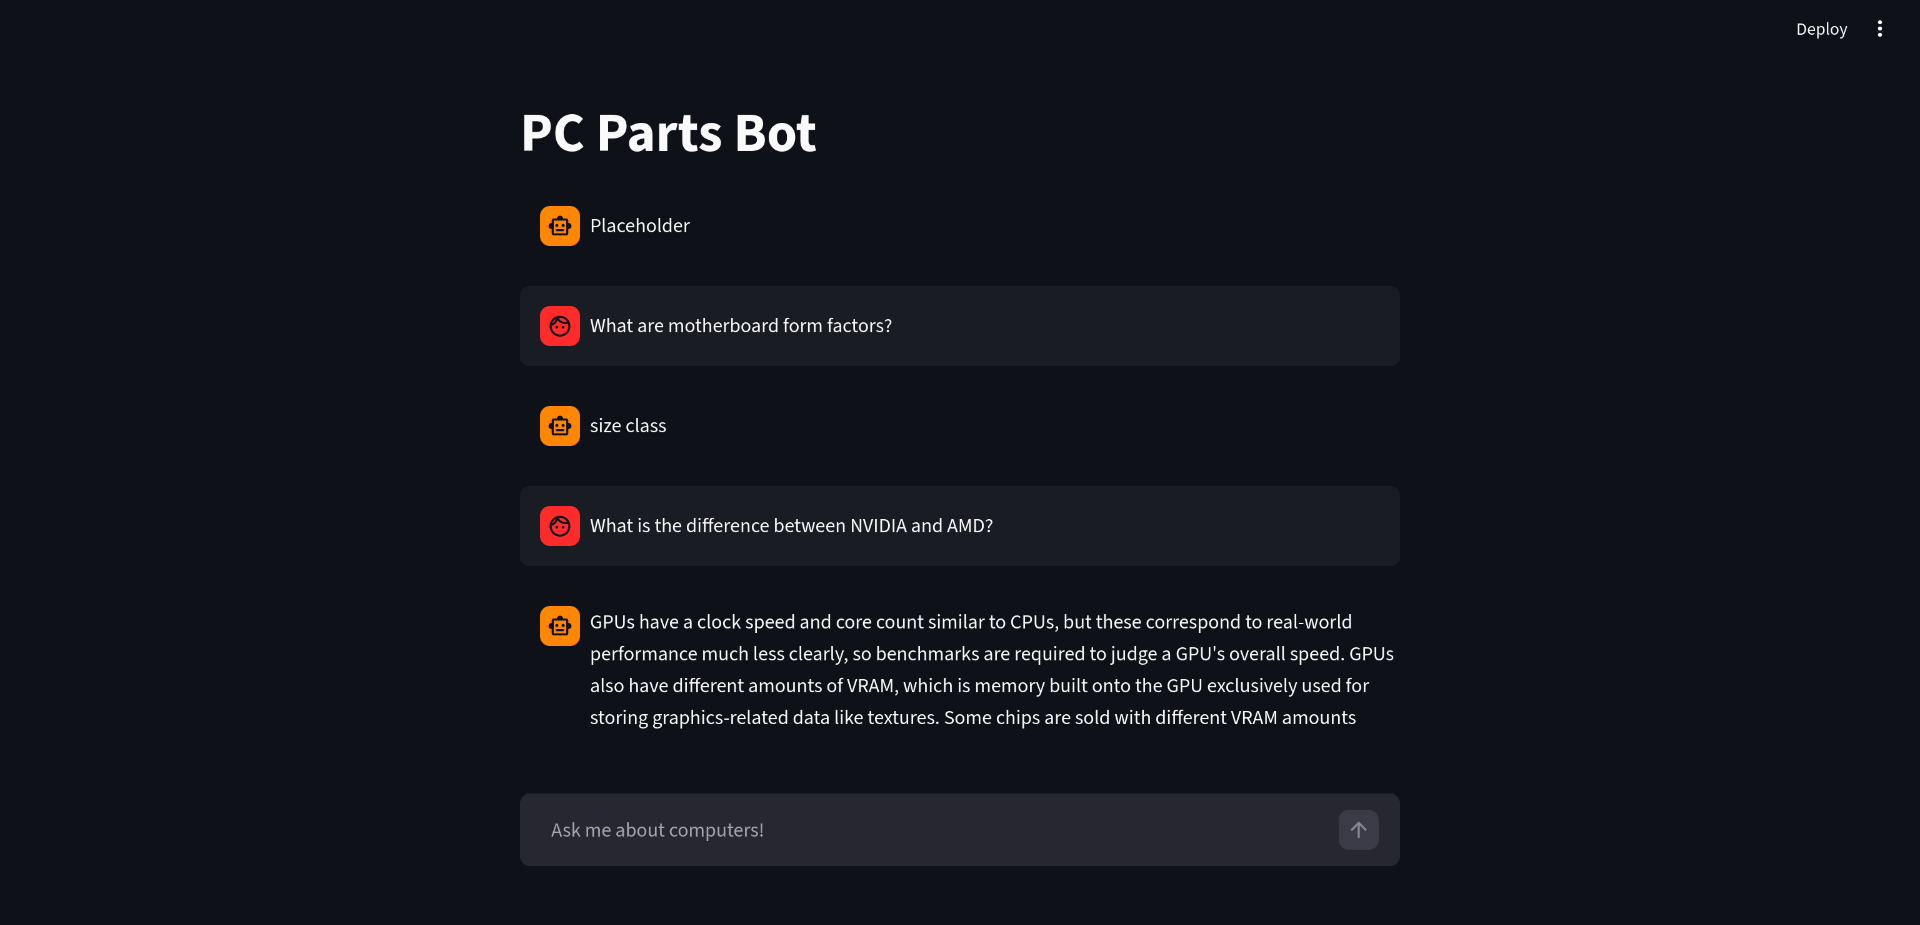
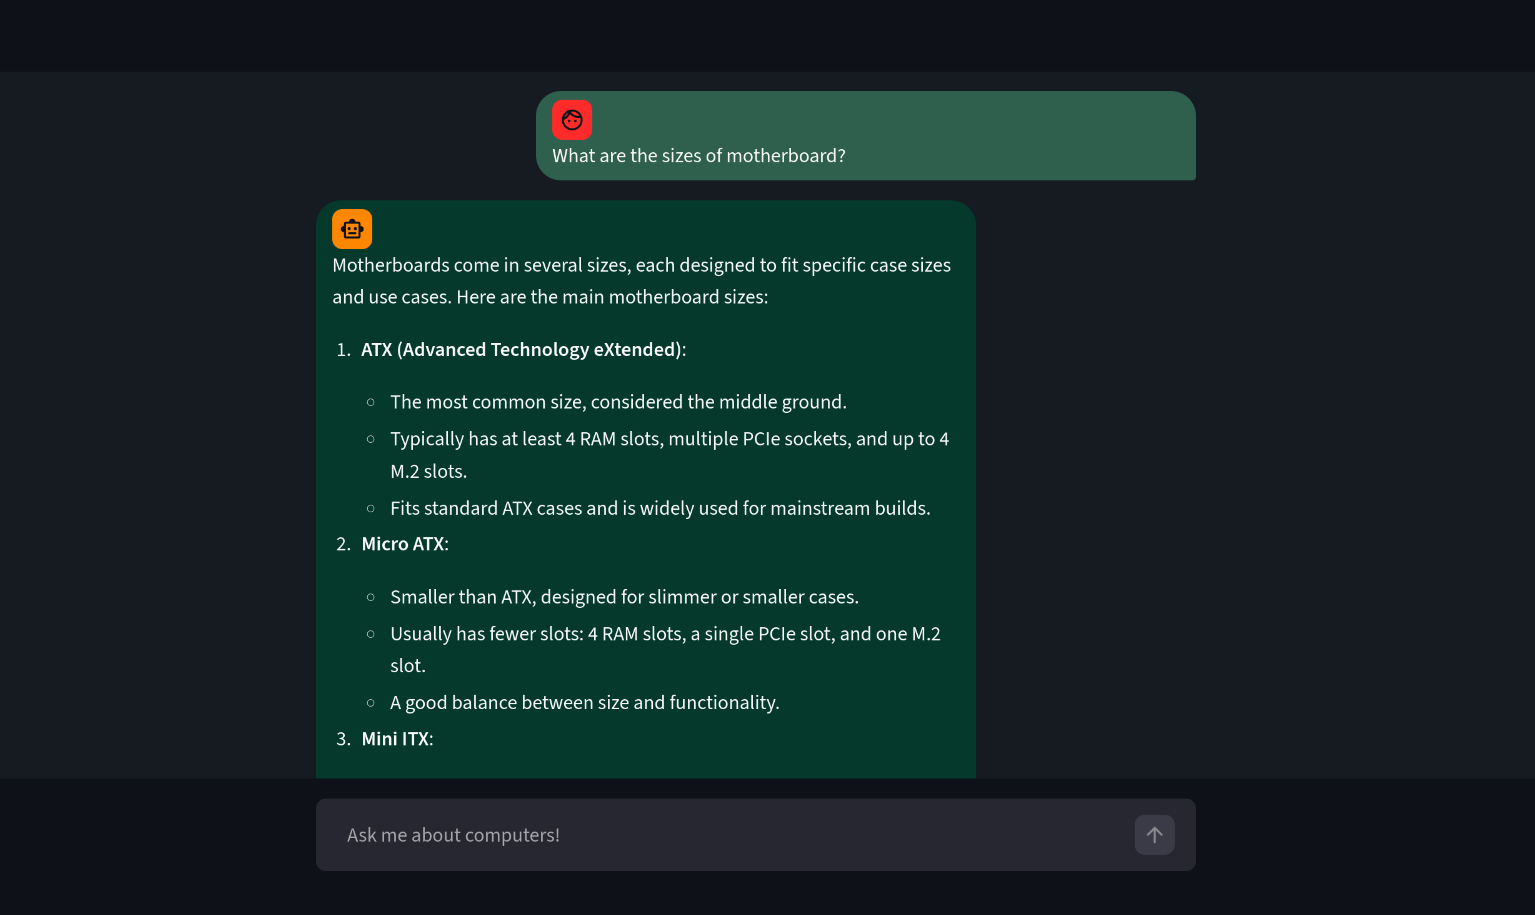
README edits, py file renamed

diff --git a/README.md b/README.md
@@ -1,4 +1,5 @@
-Simple RAG chatbot to answer questions about computer parts. Uses Streamlit for frontend.
+Simple RAG chatbot to answer questions about computer parts.  
+Streamlit is used for the frontend, and calls are made to [Cohere's API](https://docs.cohere.com/) for the retrieval and response generation.  
 
 ![example of frontend appearance](image.png)
 
@@ -42,7 +43,7 @@ API_KEY=insertKeyHere
 5. Run script:
 
 ```bash
-streamlit run rag_chatbot.py
+streamlit run app.py
 ```
 
 After some time, a Streamlit tab should open in your browser.